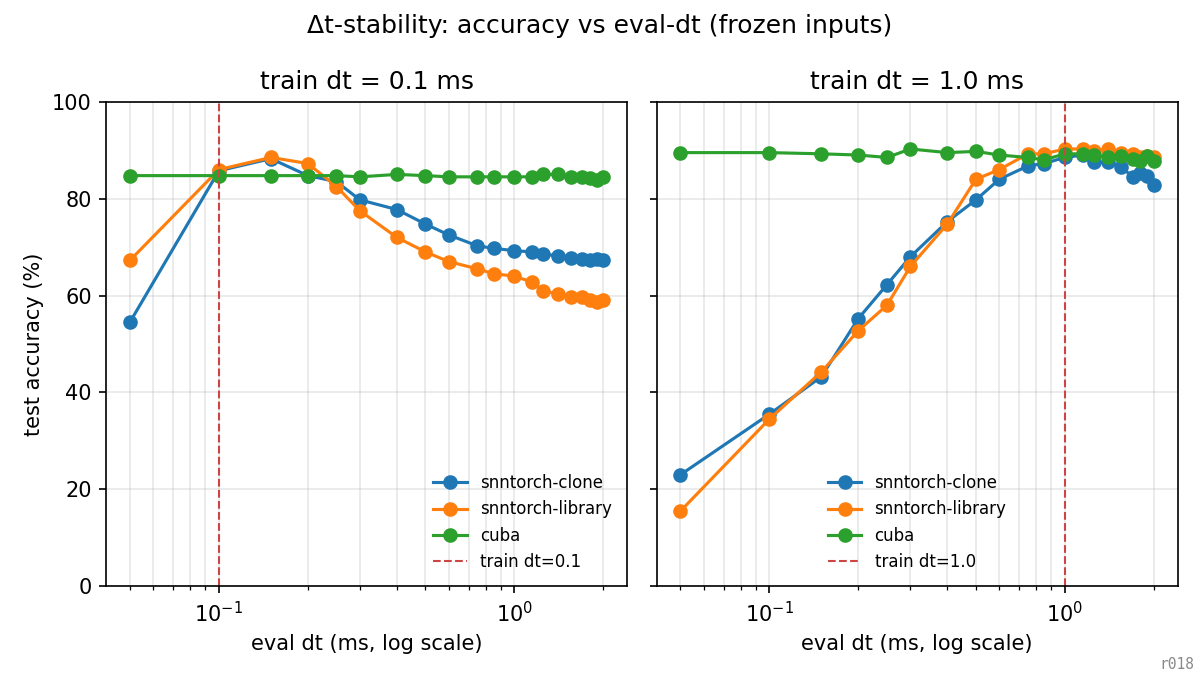
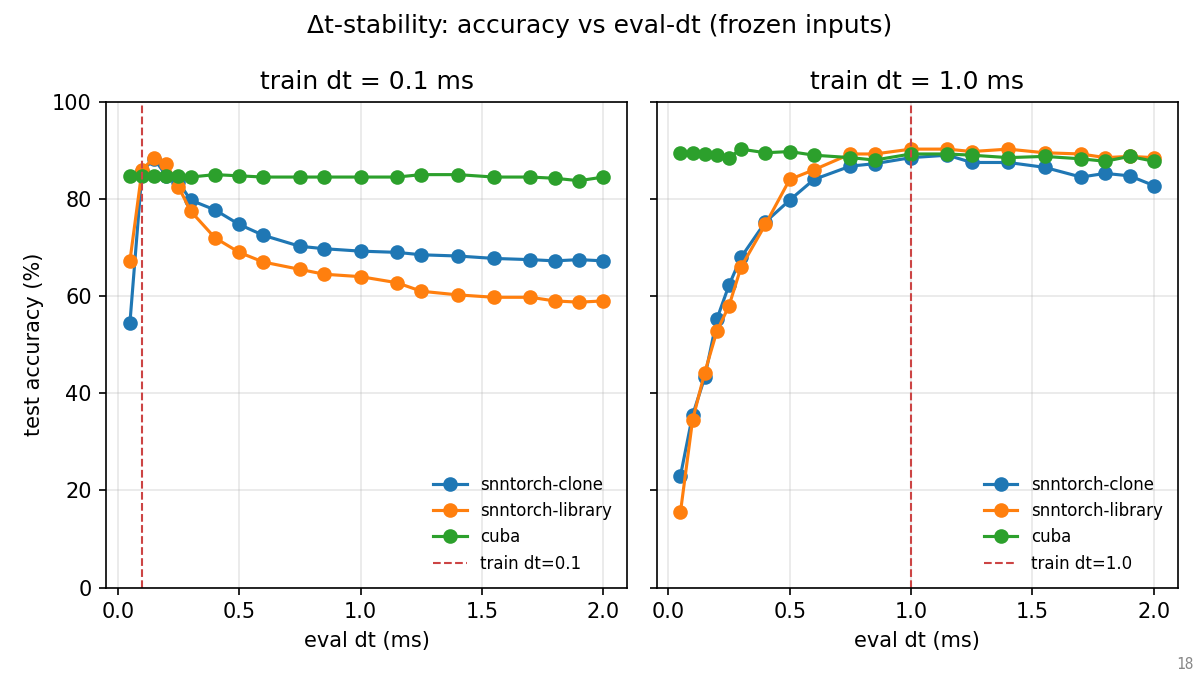
nb003: linear axes on sweep plots; expand OR-pool caveat + findings
- Drop log-x/log-y on dt_sweep.png and firing_rates.png; regenerate.
- Expand the frozen-input Method bullet with the OR-pool formula and
  the train-dt dependence it introduces in the per-step input rate.
- Add Findings subsection explaining why the two snnTorch training
  regimes settle at different operating points.
- Add next step to audit the OR-pool encoder for dt-confounding.

diff --git a/src/pinglab/notebook/nb003.py b/src/pinglab/notebook/nb003.py
@@ -327,17 +327,15 @@ def plot_firing_rates(regime_sweep_dirs: dict[float, dict[str, Path]],
                     color=MODEL_COLORS[model], label=MODEL_LABELS[model])
         ax.axvline(dt_train, color="#cc4444", linestyle="--", linewidth=1,
                    label=f"train dt={dt_train}")
-        ax.set_xscale("log")
-        ax.set_yscale("log")
-        ax.set_xlabel("eval dt (ms, log scale)")
+        ax.set_xlabel("eval dt (ms)")
         ax.set_title(f"train dt = {dt_train} ms")
-        ax.grid(alpha=0.3, which="both")
+        ax.grid(alpha=0.3)
         ax.legend(frameon=False, fontsize=8)
     if not any_data:
         print("[warn] no firing-rate data in sweep results; skipping firing_rates.png")
         plt.close(fig)
         return
-    axes[0].set_ylabel("mean hidden firing rate (Hz, log scale)")
+    axes[0].set_ylabel("mean hidden firing rate (Hz)")
     fig.suptitle("Δt-stability: hidden firing rate vs eval-dt (frozen inputs)")
     fig.tight_layout()
     _stamp_figure(fig, notebook_run_id)
@@ -363,11 +361,10 @@ def plot_dt_sweep(regime_sweep_dirs: dict[float, dict[str, Path]],
                     color=MODEL_COLORS[model], label=MODEL_LABELS[model])
         ax.axvline(dt_train, color="#cc4444", linestyle="--", linewidth=1,
                    label=f"train dt={dt_train}")
-        ax.set_xscale("log")
-        ax.set_xlabel("eval dt (ms, log scale)")
+        ax.set_xlabel("eval dt (ms)")
         ax.set_title(f"train dt = {dt_train} ms")
         ax.set_ylim(0, 100)
-        ax.grid(alpha=0.3, which="both")
+        ax.grid(alpha=0.3)
         ax.legend(frameon=False, fontsize=8)
     axes[0].set_ylabel("test accuracy (%)")
     fig.suptitle("Δt-stability: accuracy vs eval-dt (frozen inputs)")
